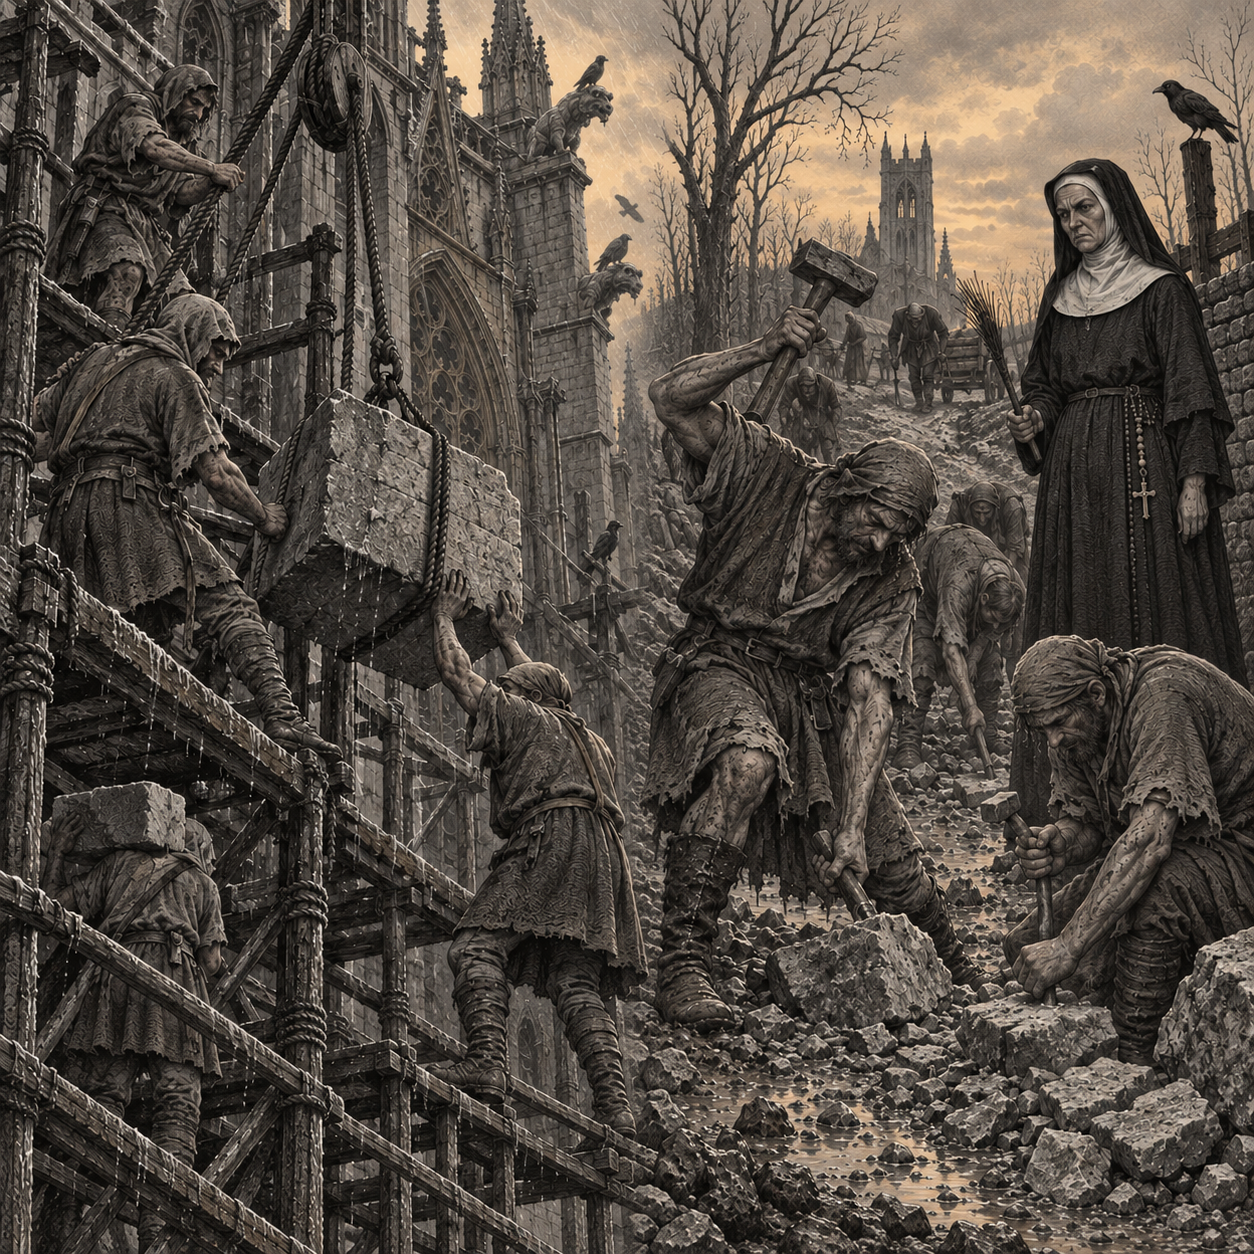
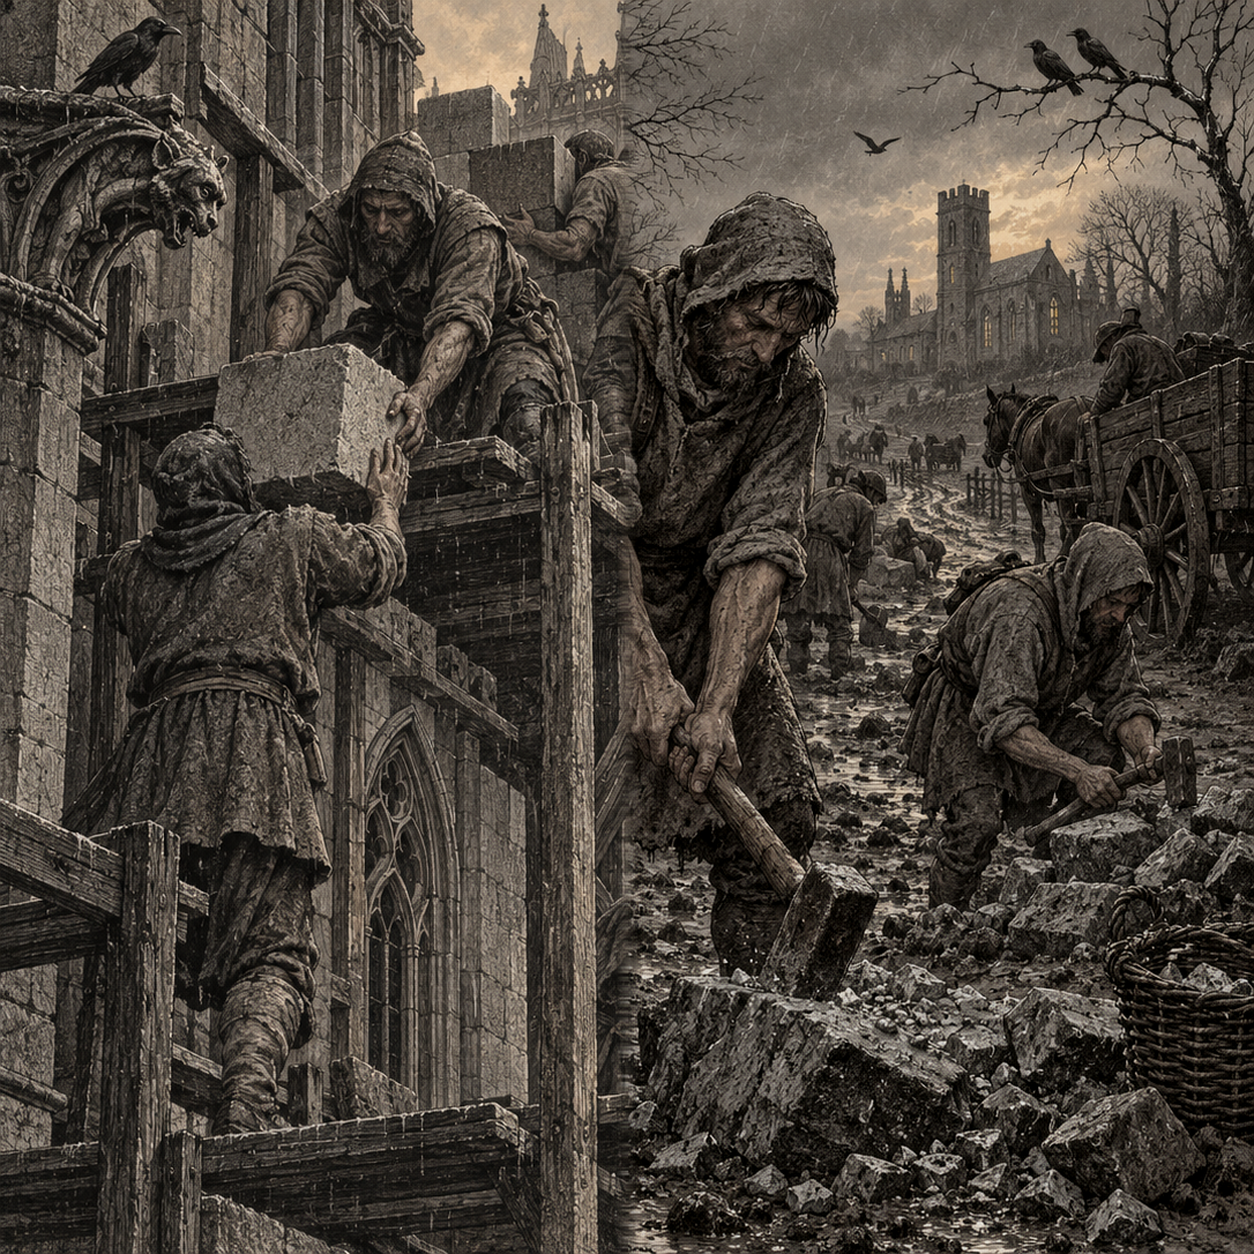
The Construct tile is cross-merged from two pairs, and says so
Adam picked one panel from each of two separate source pairs -- the masons setting a block from the
first, the road-breakers from the second -- so the tile is no longer one pair's two halves.

COMPOSITED BY CODE RATHER THAN REDRAWN, which is a change of provenance and not just of picture, so
`attribution.json` says it in those words. The previous entry read "merged from its two source
panels by the image tool, not by code", and that sentence was the record of how the old tile came
to exist; leaving it over a tile built another way is the kind of quiet untruth this file is for.

THE CROP IS THE FIX, NOT THE COST. Each panel is 700 x 1086 and a half of a square tile is 1:2, so
a fifth of each panel's width has to go. Measured on the columns that would actually touch -- not
on the panels as wholes, which agree to 4.6 of L* and would have said everything was fine:

    keep the outer edges, crop the inner    worst channel step 21.1
    centre both                                                27.4
    keep the inner edges, crop the outer                       41.7

The inner edges are a bright cathedral sky against a dark wall, 43 levels apart in red. No global
correction touches that, because it is not a global fault. Cropping inward removes exactly the two
things that clashed; a per-channel level shift onto the left panel's mean and a 20 px cross-fade
take the residual to 0.8 of 255.
[…]

diff --git a/ui/docs/duty-wheel/prompts_txt/README.md b/ui/docs/duty-wheel/prompts_txt/README.md
@@ -22,6 +22,26 @@ commit that removed the others.
 The four single-action tiles — Allocation, Build Roads, Taxation and the City — have only
 `V_whole_tile.txt`. They are one scene, so there is nothing to merge.
 
+### A second route, added for Construct
+
+```
+NN_name/V_option3_step2_merge_cross.txt
+```
+
+A cross-merge: TWO pair images are attached and ONE panel is taken from each, rather than both
+panels of a single pair. It exists because a pair can come back with one panel worth keeping and
+one not, and regenerating the pair to fix the second half throws away the first.
+
+The committed Construct C tile was not made this way. It was **composited by code** — the same two
+panels, cropped a fifth of their width from the inner side, level-matched per channel and butted at
+the centre through a 20 px cross-fade. That is worth knowing before you reach for either: a
+composite keeps the artwork exactly as generated and puts the join at 0.5, where the board's
+lit/dim mask already splits, but it cannot make anything FLOW across the join. It worked there only
+because the two inner edges were 43 levels apart before cropping and 0.8 after — measure that
+first, on the columns that would actually touch, not on the panels as wholes. The prompt route
+redraws a band instead, so weather and ground carry across; the cost is a regeneration, and the
+figures may not come back as they are.
+
 `V` is `A` (engraved plate) or `B` (grim dark). **B is the chosen set**; A is kept as the record of
 that comparison. Generating A again is only worth it if you are revisiting the decision.
 
